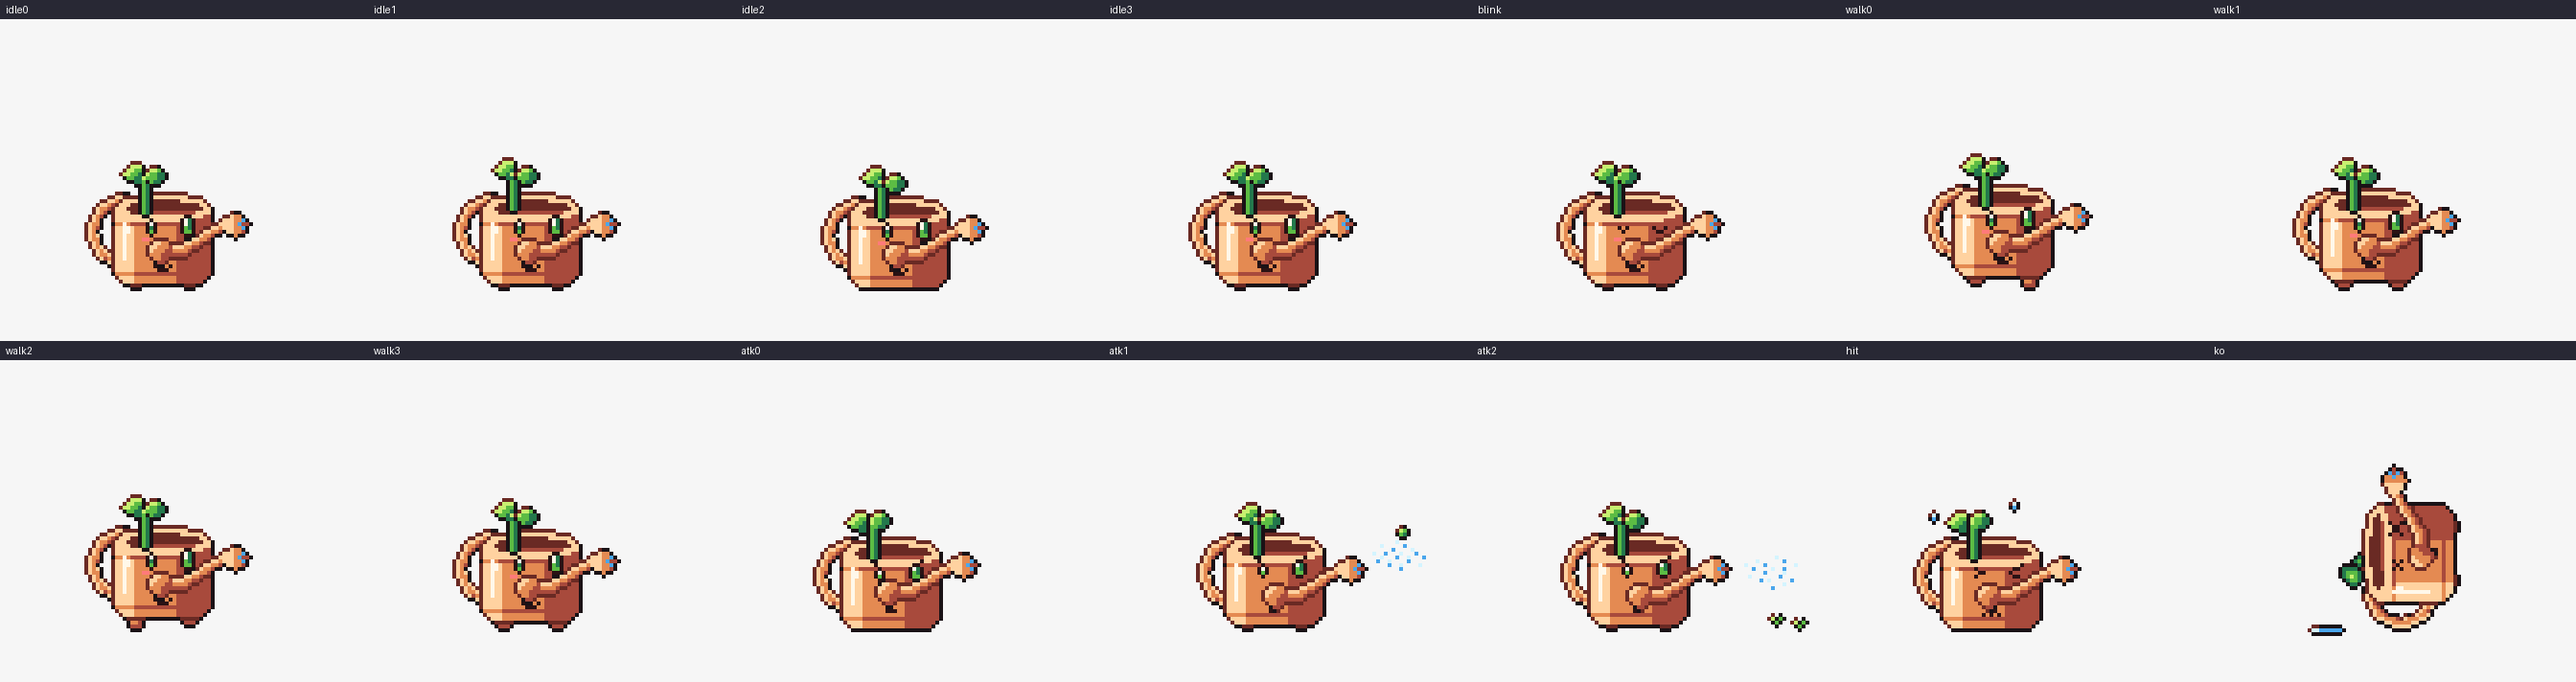
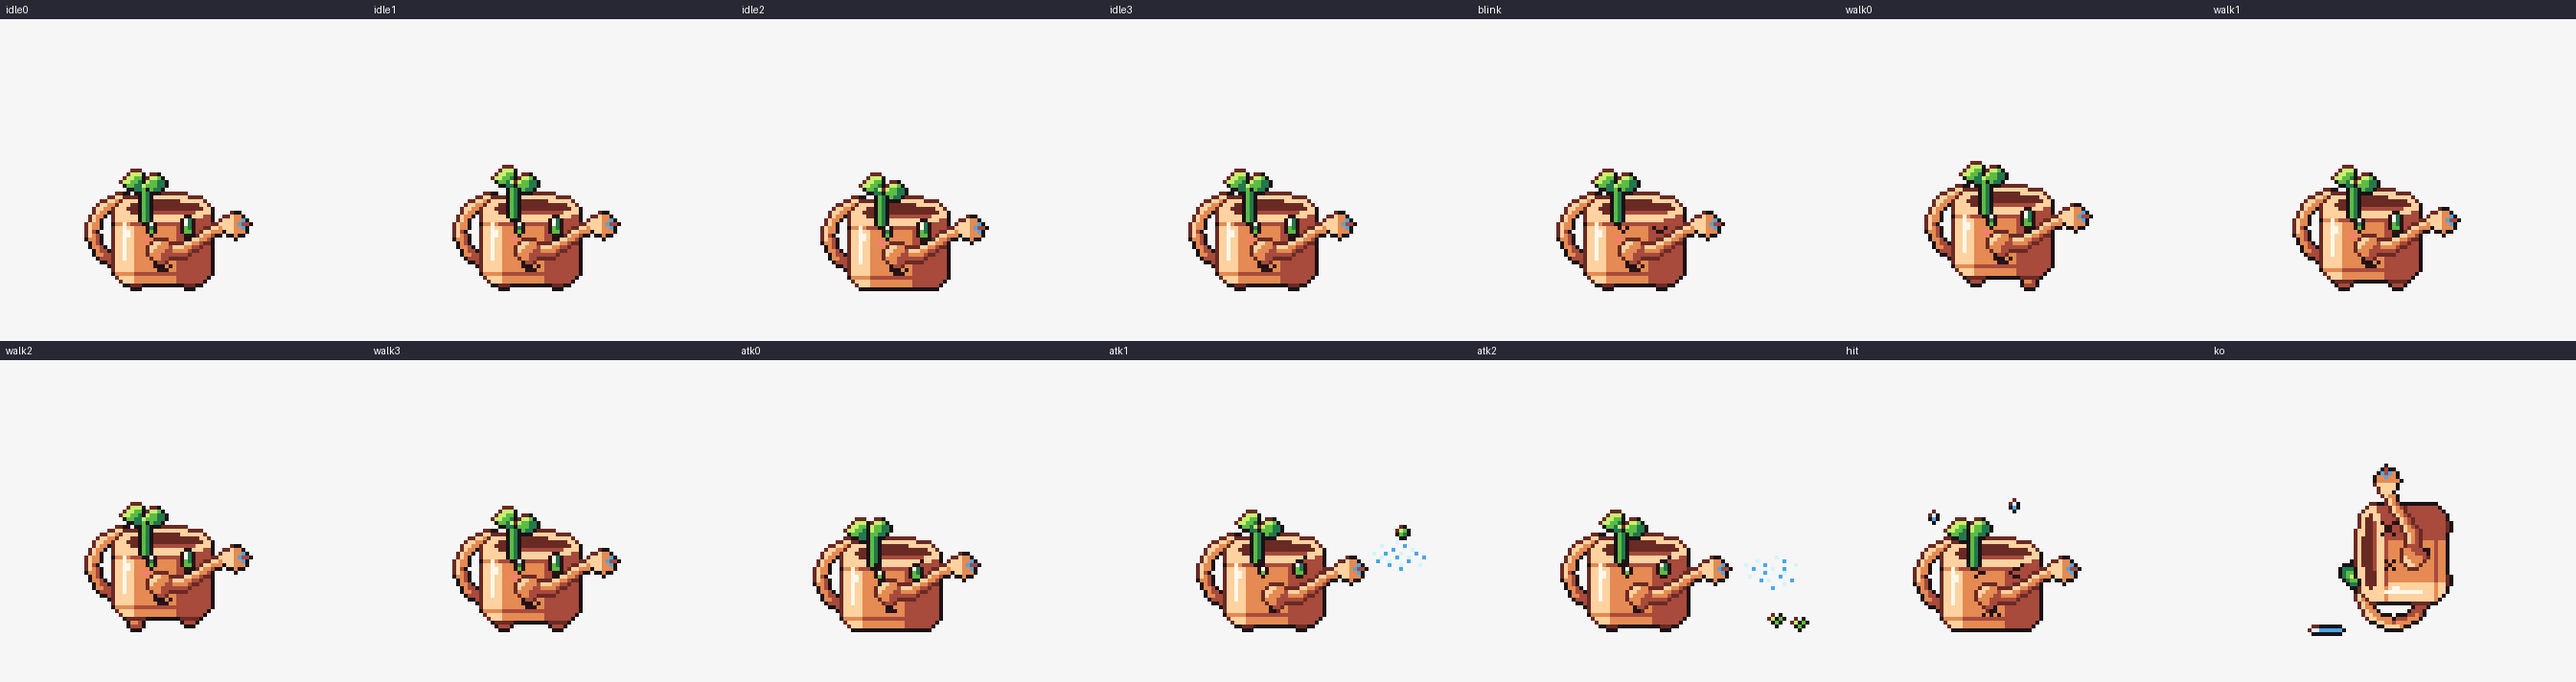
かわいい無機物：クルリン（風車）・ドロダン（泥だんご）
Claude-Session: https://claude.ai/code/session_01J9mYv3PRYW1GKv9GU2f7rQ

diff --git a/tools/monsters/jouron/mon.py b/tools/monsters/jouron/mon.py
@@ -15,6 +15,18 @@ KEEP_BLACK = set('wgdre')
 def put(g, pts, ch):
     for x, y in pts:
         if 0 <= y < len(g) and 0 <= x < len(g[0]): g[y][x] = ch
+def despeckle(g, keep='wv'):
+    # はぐれドットを まわりで いちばん 多い 色に（手で 消す かわり）
+    H, W = len(g), len(g[0]); src = [r[:] for r in g]
+    for y in range(H):
+        for x in range(W):
+            c = src[y][x]
+            if c in '.' + keep: continue
+            nb = [src[y + dy][x + dx] for dy in (-1, 0, 1) for dx in (-1, 0, 1) if (dy or dx) and 0 <= y + dy < H and 0 <= x + dx < W]
+            if c not in nb:
+                cs = [n for n in nb if n != '.']
+                if cs: g[y][x] = max(set(cs), key=cs.count)
+    return g
 def stamp(g, rows, x0, y0):
     for j, r in enumerate(rows):
         for i, c in enumerate(r):
@@ -44,7 +56,7 @@ def can_body():
         if g[BH - 3][x] != '.': g[BH - 3][x] = 'C' if x > 4 else 'B'
     for y in range(7, BH - 6):                                      # 金属の つや（縦の 白い すじ）
         put(g, [(2, y)], 'w')
-    put(g, [(3, 8), (3, 9)], 'w')
+    put(g, [(3, 9), (3, 10)], 'w')
     return outline(rows_of(g))
 
 # ---- 取っ手：うしろの 弓なりの 輪 ----
@@ -53,11 +65,8 @@ def handle():
     for y in range(20):
         for x in range(12):
             d = ((x - 11.5) / 11) ** 2 + ((y - 10) / 9.6) ** 2
-            if .6 <= d <= 1.0: g[y][x] = 'B'
-    for y in range(20):
-        for x in range(12):
-            if g[y][x] == 'B' and (x == 0 or g[y][x - 1] == '.' or y == 0 or g[y - 1][x] == '.'): g[y][x] = 'A'
-            elif g[y][x] == 'B' and (y < 19 and g[y + 1][x] == '.'): g[y][x] = 'C'
+            if .6 <= d <= 1.0: g[y][x] = 'A' if (d > .82 and y < 12) else 'C' if (d < .75 and y > 9) or (y > 16) else 'B'
+    despeckle(g)
     return outline(rows_of(g))
 
 # ---- 注ぎ口（＝鼻）：顔の まん中から 右上へ 細くなる 管。先に はす口 ----
@@ -81,6 +90,7 @@ def spout():
             if ((x + .5 - hx) / 3.2) ** 2 + ((y + .5 - hy) / 2.8) ** 2 <= 1 and x - 18.5 >= abs(y + .5 - hy) * .7 - .6:
                 g[y][x] = 'A' if x < 22 else 'B' if x < 24 else 'C'
     put(g, [(24, 1), (24, 3), (23, 2)], 'v')
+    despeckle(g)
     return outline(rows_of(g))
 # ---- 芽：口から 出た 双葉。phase で ゆれる ----
 def sprout(phase=0, droop=False):
@@ -130,7 +140,7 @@ def layers():
         dict(n='footB', g='legB', x=31, y=55, rows=FOOT, not_=NA),
         dict(n='footA', g='legA', x=17, y=55, rows=FOOT, not_=NA),
         dict(n='can', g='body', x=13, y=33, rows=can_body(), not_=NA),
-        dict(n='sprout', g='top', x=13, y=23, rows=sprout(1), alt={'idle1|idle2|walk1|walk3': sprout(2), 'atk0|hit': sprout(0), 'atk1|atk2': sprout(2)}, not_=NA),
+        dict(n='sprout', g='top', x=13, y=25, rows=sprout(1), alt={'idle1|idle2|walk1|walk3': sprout(2), 'atk0|hit': sprout(0), 'atk1|atk2': sprout(2)}, not_=NA),
         dict(n='face', g='face', x=21, y=39, rows=face('open'), alt={'blink': face('blink'), 'atk0': face('fight'), 'atk1|atk2': face('shout'), 'hit': face('pain')}, not_=NA),
         dict(n='spout', g='nose', x=22, y=38, rows=spout(), not_=NA),
         # 攻撃：はす口から 水を まき、種が 芽を 出す（はなれているのは 意図的な エフェクト）
@@ -149,7 +159,7 @@ def layers():
 def ko_body():
     # 立ち姿を 組んで 左へ 90度（反時計回り）回す：あおむけ、注ぎ口が 上を 向く
     W, H = 52, 40; g = grid(W, H); ox, oy = 5, 23
-    for rows, x, y in ((handle(), 5, 32), (sprout(droop=True), 13, 23), (FOOT, 31, 55), (FOOT, 17, 55), (can_body(), 13, 33), (face('ko'), 21, 39), (spout(), 22, 38)):
+    for rows, x, y in ((handle(), 5, 32), (sprout(droop=True), 13, 25), (FOOT, 31, 55), (FOOT, 17, 55), (can_body(), 13, 33), (face('ko'), 21, 39), (spout(), 22, 38)):
         stamp(g, rows, x - ox, y - oy)
     rows = rot90(rot90(rot90(rows_of(g))))
     ys = [y for y, r in enumerate(rows) if r.strip('.')]; xs = [x for x in range(len(rows[0])) if any(r[x] != '.' for r in rows)]
